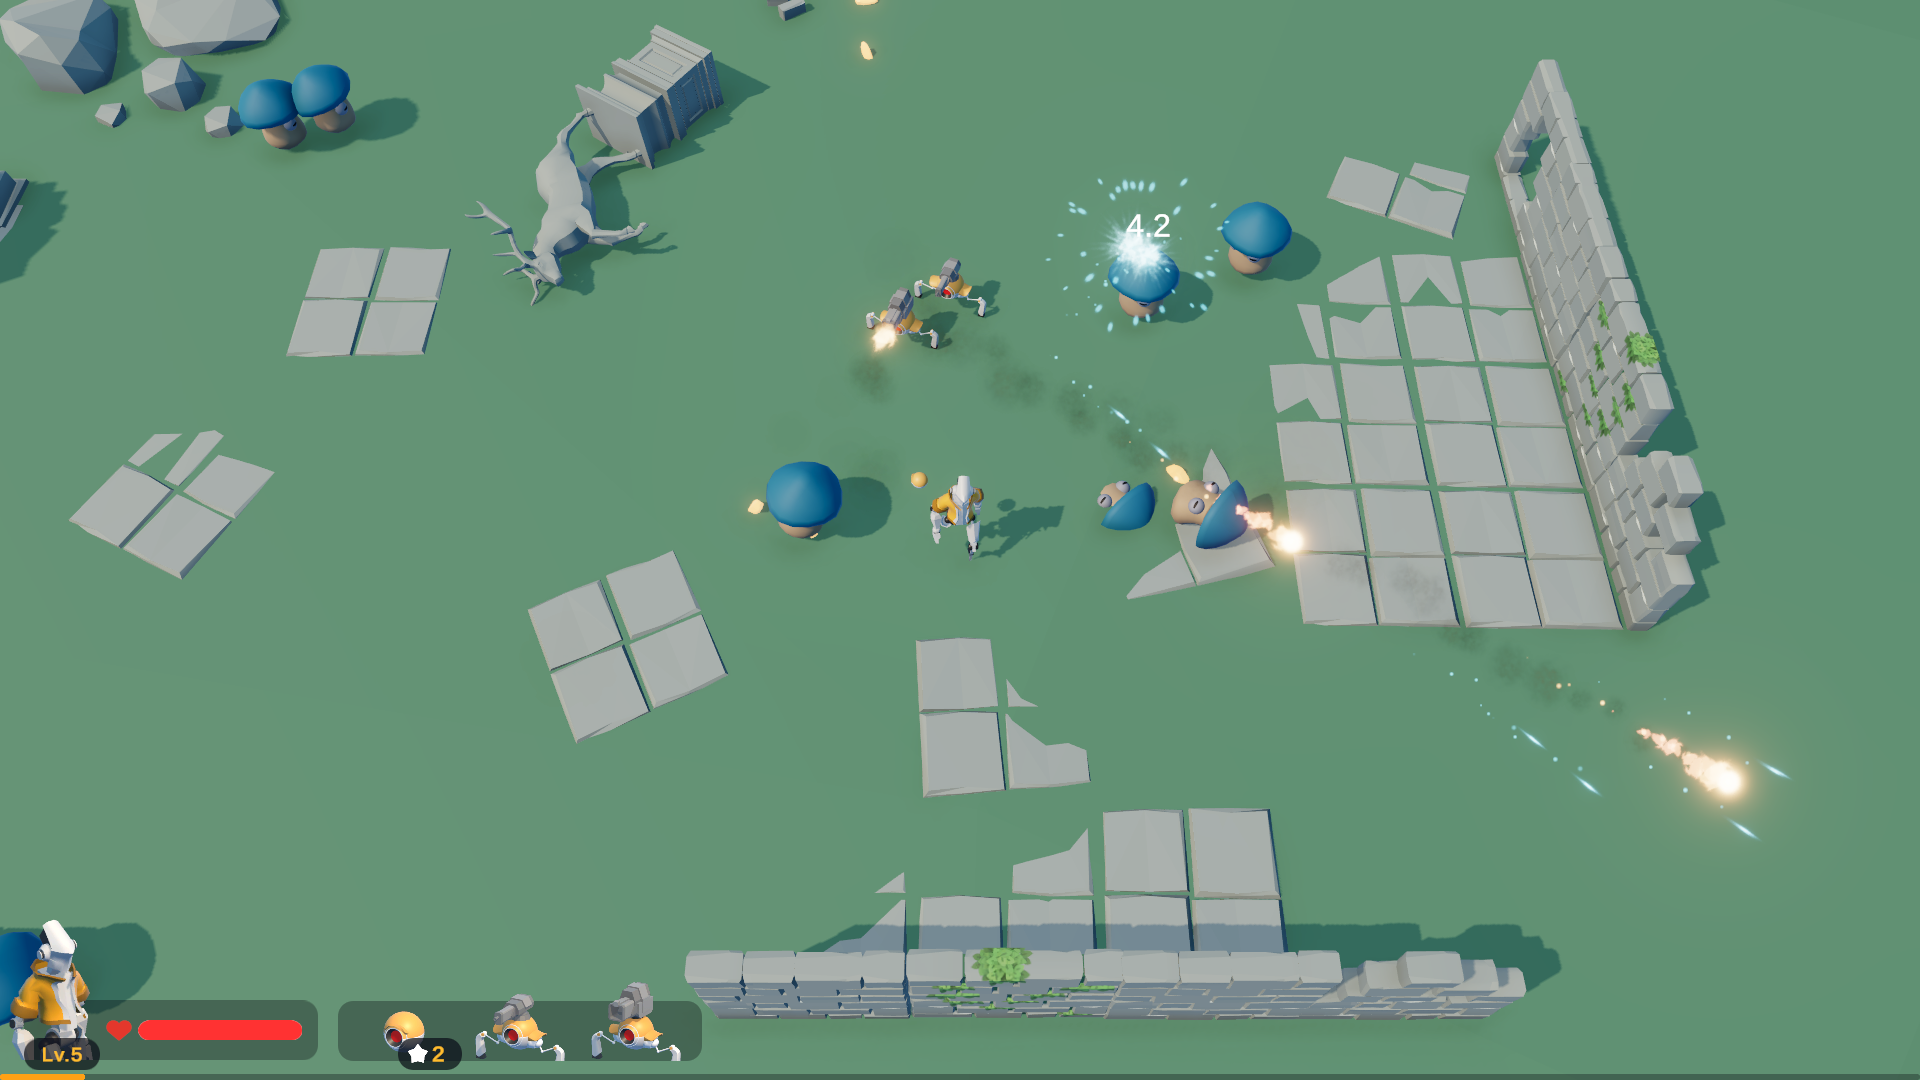
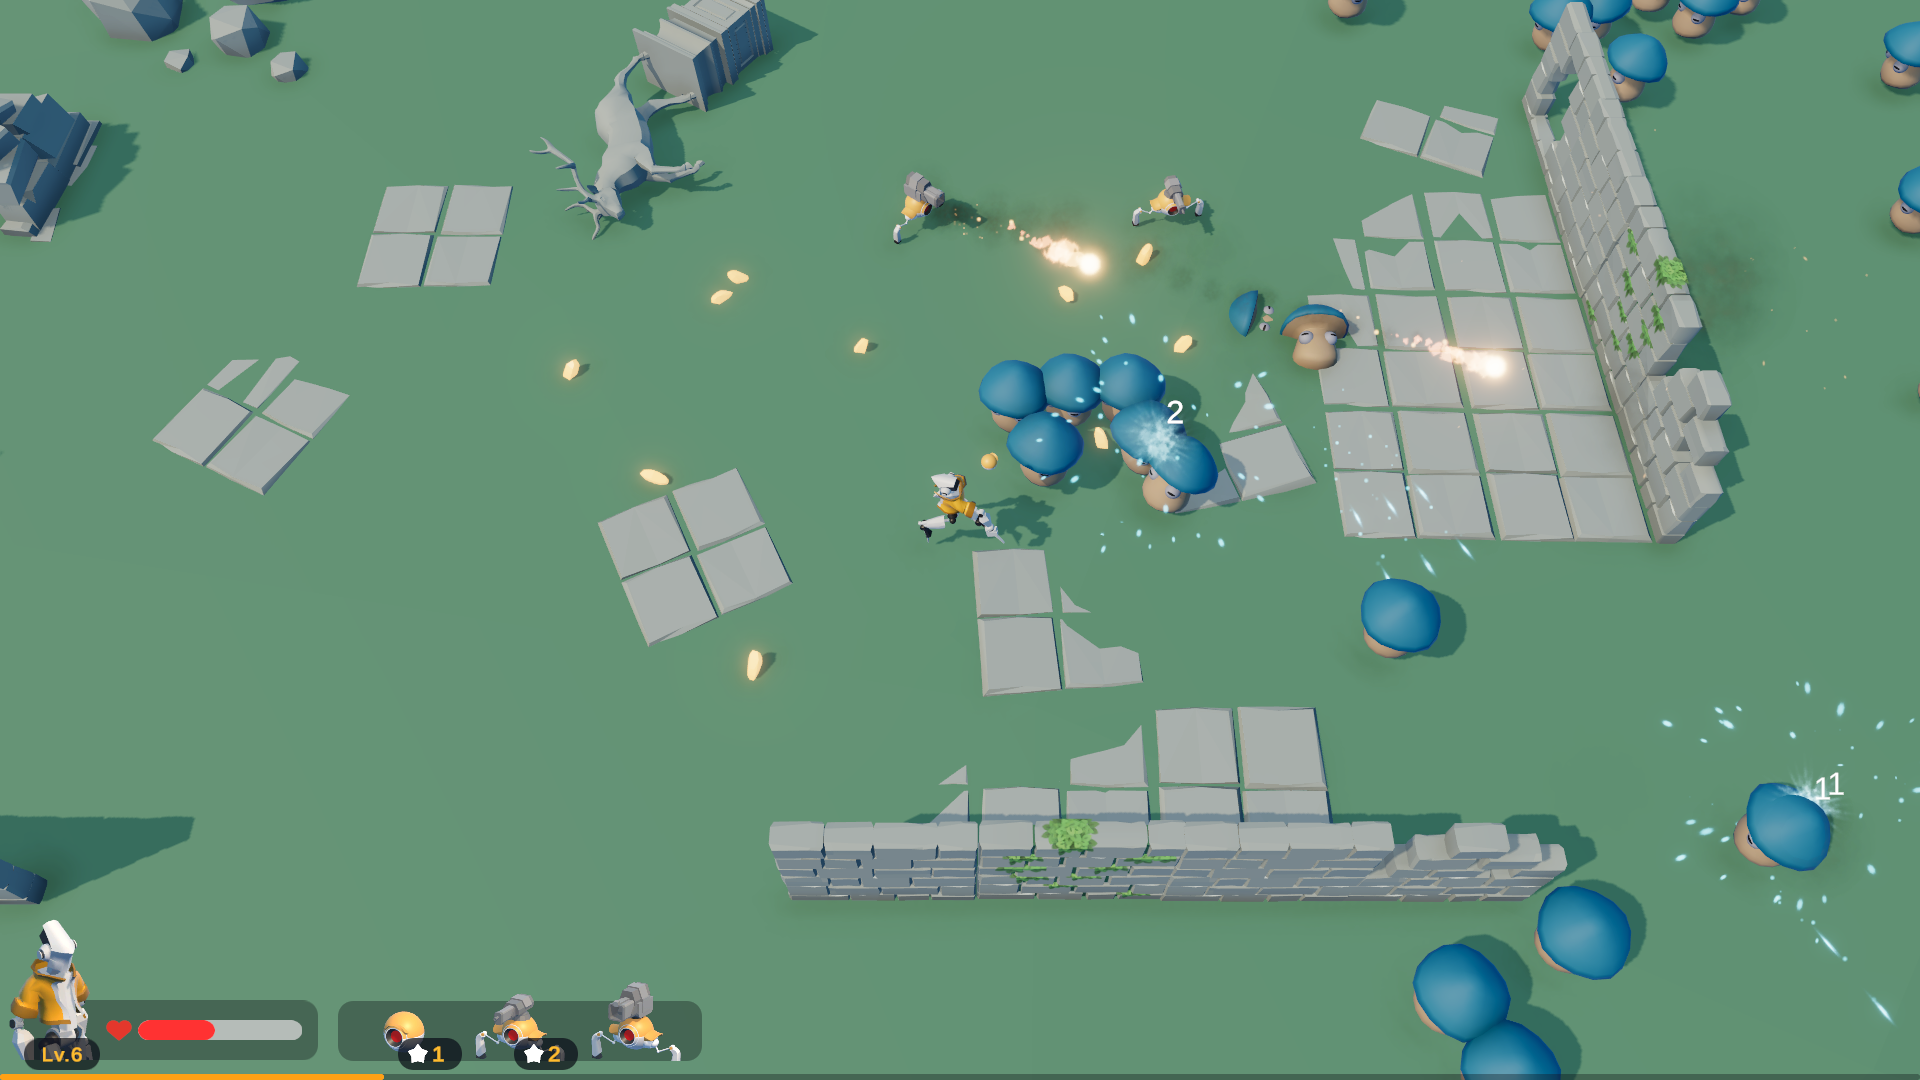
Droid Gear - Update

diff --git a/samples/DroidGear/Assets/Scripts/Game/Characters/Player/PlayerController.cs b/samples/DroidGear/Assets/Scripts/Game/Characters/Player/PlayerController.cs
@@ -111,7 +111,7 @@ namespace Game.Characters.Player
             }
         }
 
-        internal void HandleMovement(float deltaTime) 
+        internal void HandleOrientation(float deltaTime)
         {
             if (Movement != Vector3.zero)
             {
@@ -119,8 +119,10 @@ namespace Game.Characters.Player
                 var rotation = Model.transform.rotation;
                 Model.transform.rotation = Quaternion.RotateTowards(rotation, targetRotation, _turnSpeed * deltaTime);
             }
+        }
 
-            // Cc.Move(MoveSpeed * deltaTime * Movement);
+        internal void HandleMovement() 
+        {
             Rb.velocity = MoveSpeed * Region.Ticker.TimeScale * Movement;
         }
 

diff --git a/samples/DroidGear/Assets/Scripts/Game/Characters/Player/States/Normal.cs b/samples/DroidGear/Assets/Scripts/Game/Characters/Player/States/Normal.cs
@@ -15,11 +15,12 @@ namespace Game.Characters.Player.States
             {
                 base.OnUpdate(deltaTime);
                 Owner.Model.Anim.SetBool(AnimConst.IsRunning, Owner.Movement != Vector3.zero);
+                Owner.HandleOrientation(deltaTime);
             }
 
             public override void OnFixedUpdate(float deltaTime)
             {
-                Owner.HandleMovement(deltaTime);
+                Owner.HandleMovement();
             }
 
         }

diff --git a/samples/DroidGear/Assets/Scripts/Game/UI/Combat/CombatOverlay.cs b/samples/DroidGear/Assets/Scripts/Game/UI/Combat/CombatOverlay.cs
@@ -41,7 +41,7 @@ namespace Game.UI.Combat
             if (floatingText == null)
                 return;
 
-            await floatingText.Popup(_cam, e.WorldPos, Math.Abs(e.Damage.Value).ToString());
+            await floatingText.Popup(_cam, e.WorldPos, Math.Abs(e.Damage.Value).ToString("0"));
             _damageTextPool.Release(floatingText);
         }
 

diff --git a/samples/DroidGear/Assets/Scripts/Game/Framework/Character.cs b/samples/DroidGear/Assets/Scripts/Game/Framework/Character.cs
@@ -54,6 +54,8 @@ namespace Game.Framework
         {
             AbilityComp.OnUpdate(deltaTime);
             EffectComp.OnUpdate(deltaTime);
+            if (Model.Anim != null)
+                Model.Anim.speed = Region.Ticker.TimeScale;
         }
 
         protected virtual void OnHealthChanged(AttributeComponent attrComp, float delta, float newHealth)

diff --git a/samples/DroidGear/Assets/Scripts/Game/Combat/CombatSystem.cs b/samples/DroidGear/Assets/Scripts/Game/Combat/CombatSystem.cs
@@ -81,6 +81,7 @@ namespace Game.Combat
             droid.Setup(Region);
             droid.Init(config);
             droid.Trans.SetPositionAndRotation(pos, RandomUtil.RandomYRotation());
+            Bb.Droids.Add(droid);
             
             Emit(new GearAdded { Config = config });
         }

diff --git a/README.md b/README.md
@@ -6,7 +6,7 @@
 
 # 目录
 - [示例项目](#示例项目)
-  - [Droid Gear](#droid-gear)
+  - [Droid Gear (WIP)](#droid-gear-wip)
   - [Tiny Farm (WIP)](#tiny-farm-wip)
   - [Wizzywoods (WIP)](#wizzywoods-wip)
   - [Luban Example - Luban示例](#luban-example---luban示例)
@@ -318,9 +318,11 @@ public class Player : MonoEntity
 }
 ```
 
-自动初始化将会寻找场景中第一个`Director`，调用它的相应函数，使用其中的默认`Region`来初始化自身。需要注意自动初始化将会让事件函数的执行回归无序（见[自管理的事件函数](#自管理的事件函数)），考虑到目前的使用场景，该选项默认不勾选（为false），可以在Project Settings -> Player -> Other Settings -> Scripting Define Symbols中添加`PAMISUKIT_ENTITY_AUTOSETUP_DEFAULT_ON`将其改为默认true。
+自动初始化将会寻找场景中第一个`Director`，调用它的相应函数，使用其中的默认`Region`来初始化自身。需要注意自动初始化将会让事件函数的执行回归无序（见[自管理的事件函数](#自管理的事件函数)），考虑到目前大部分使用场景都是手动初始化，该选项默认不勾选（为false），可以在Project Settings -> Player -> Other Settings -> Scripting Define Symbols中添加`PAMISUKIT_ENTITY_AUTOSETUP_DEFAULT_ON`将其改为默认true。
 
 ![](./docs/images/framework_autosetup_macro.png)
+
+如果`Director`的初始化为耗时操作，需要等待`Director`初始化完毕后才开始`MonoEntity`的自动初始化，可以在`Director`中自定义这个过程，详见[Luban Example](#luban-example---luban示例)中的[GameDirector.cs](samples\LubanExample\LubanExampleUnity\Assets\Scripts\Game\GameDirector.cs)。
 
 ### 事件总线集成
 
@@ -454,7 +456,7 @@ public class Ball : MonoEntity, IUpdatable
 }
 ```
 
-通过以下代码修改`Ticker`的`TimeScale`，球的运动速度将会减慢：
+通过以下代码修改`Ticker`的`TimeScale`，球的运动将会变慢：
 
 ```C#
 public void Foo()
